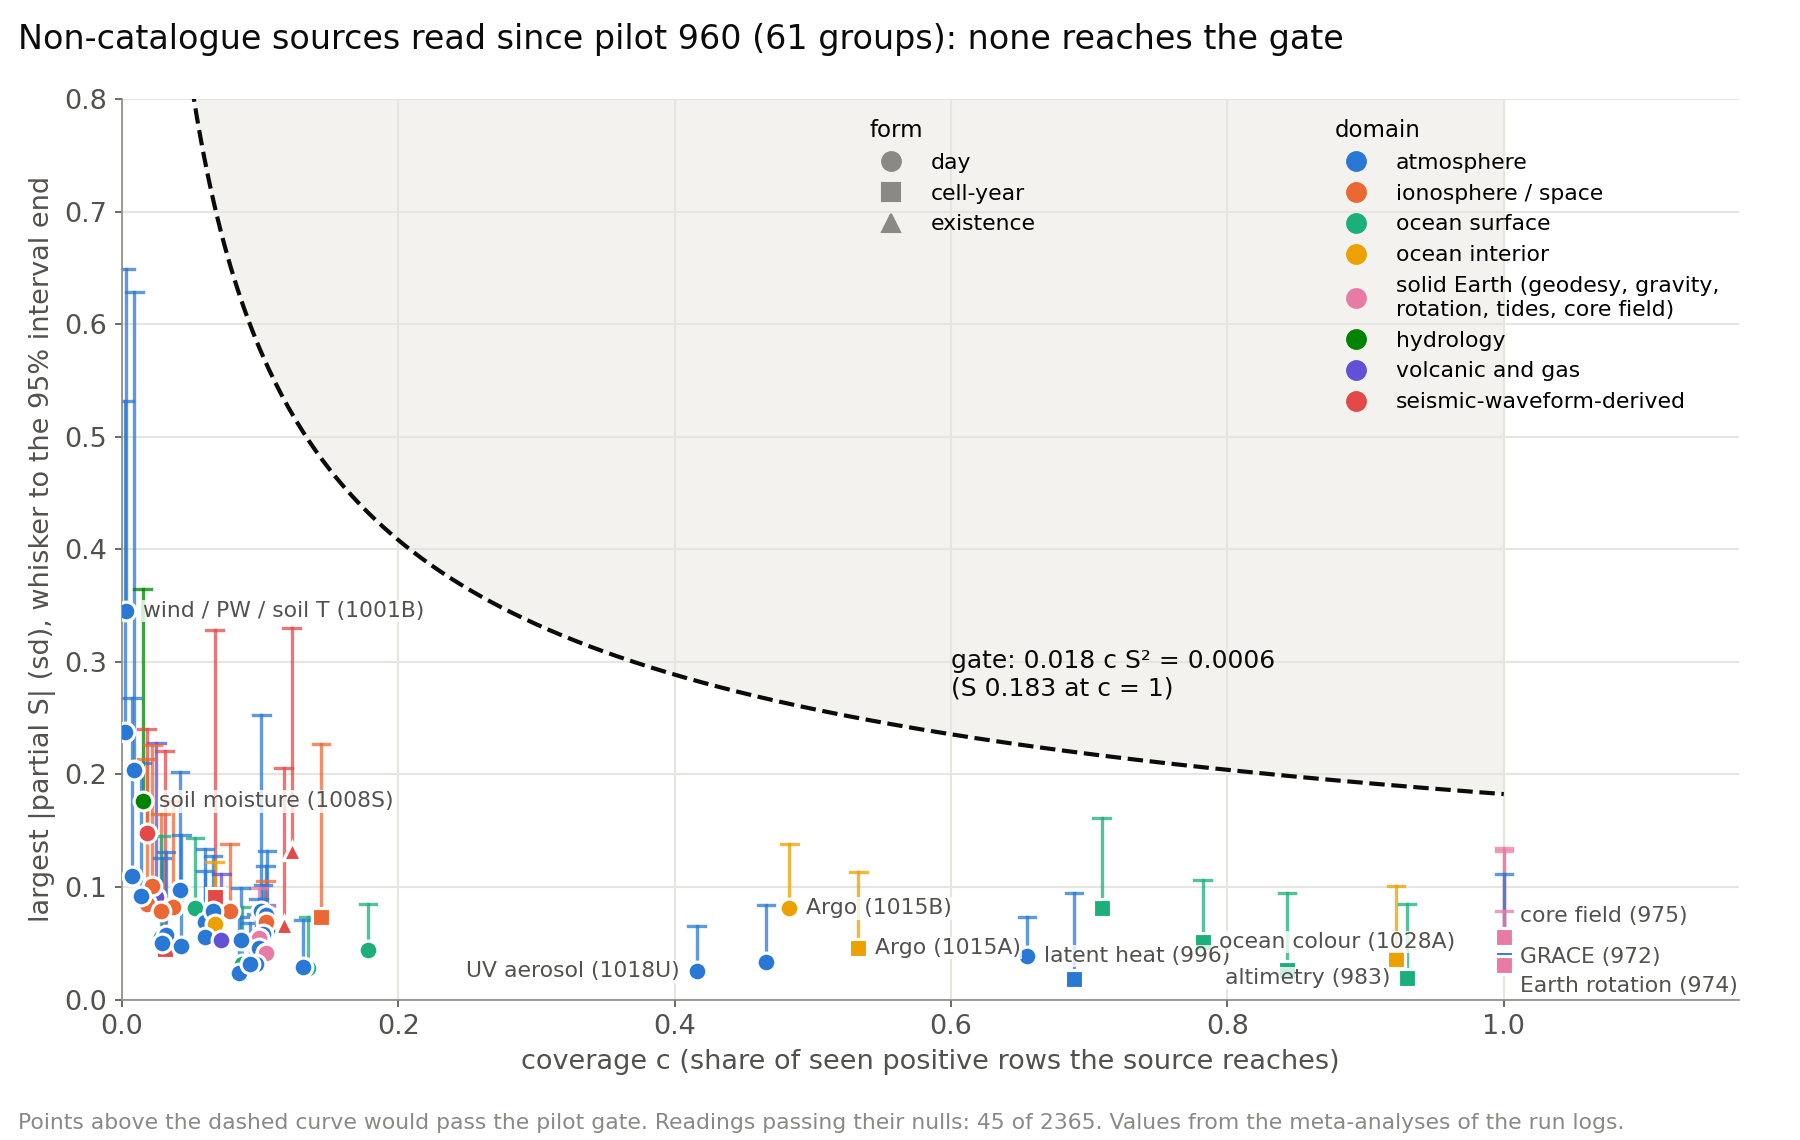
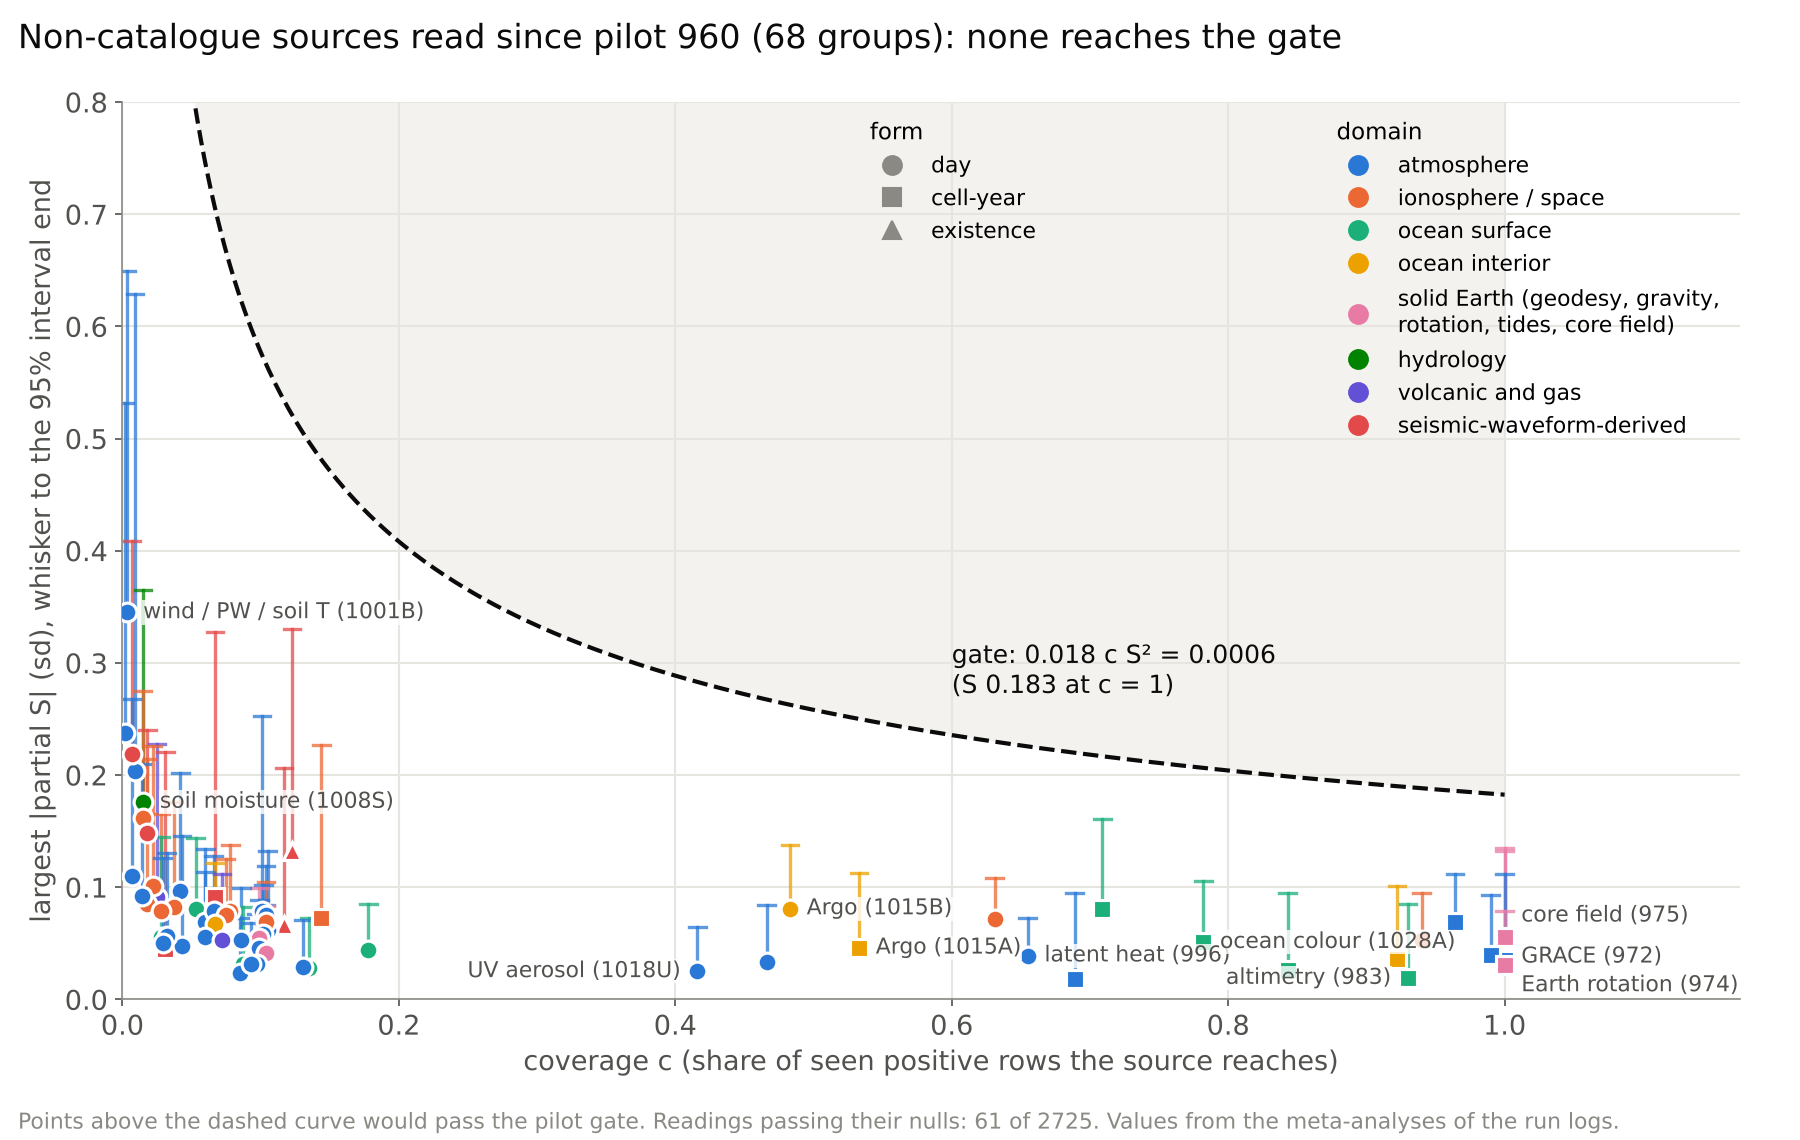
Update 198 (rounds 1074-1137); honest axis 0.778 unchanged; 7 pilot rows, figure 2 redrawn
Claude-Session: https://claude.ai/code/session_01Qxf5chyvwNeB8zBdWUwujx

diff --git a/RESEARCH-LOG.md b/RESEARCH-LOG.md
@@ -16,6 +16,7 @@ Every research narrative entry from the README, moved here unchanged on 2026-08-
 
 | # | date | what it says |
 |---|---|---|
+| [198](#update-198-2026-11-26) | 2026-11-26 | rounds 1074-1137: eight more non-catalogue sources read with a label-free validation stage first, the timing of the first earthquake inside its cell read for room and for causal order, an ETAS starting score, reruns of no-verdict readings, new secondary readings, four more prospective tests and a state-space b-value arm frozen; nothing moved the number (honest axis 0.778, main axis 0.787474) |
 | [196](#update-196-2026-11-22) | 2026-11-22 | rounds 1043-1068: a campaign toward 0.80 with look-ahead room checks before any arm (0 of 8 slots used), the feature space on and beyond the base read for room, eight more non-catalogue sources; nothing moved the number (honest axis 0.778, main axis 0.787474) |
 | [197](#update-197-2026-11-23) | 2026-11-23 | rounds 1069-1097: the honest axis decomposed and read through (seven designs), image-only and audio-only sources searched and the first pictures digitised, searched redos of readings whose model settings had been guessed, gate redesigns of earlier no-verdict readings; nothing moved the number (honest axis 0.778, main axis 0.787474) |
 | [195](#update-195-2026-11-18) | 2026-11-18 | rounds 992-1042: new catalogue parameter groups and more than twenty non-catalogue sources read, none admitted; the missing order lies mostly in quiet-looking cells and between strata; three more arms frozen for 2027 |
@@ -1023,3 +1024,7 @@ Every research narrative entry from the README, moved here unchanged on 2026-08-
 ## update 197 (2026-11-23)
 
 **2026-11-23 update 197 (rounds 1069 to 1097: the gap between the honest and the main axis decomposed and read through, image-only and audio-only sources searched and digitised, searched redos of readings whose model settings had been guessed, and gate redesigns of earlier readings without a verdict; nothing moved the number).** The headline number has not moved: 0.778 on the honest axis (0.777844; dropped rows counted as negatives) and 0.787474 on the main sudden axis, on which verdicts are read, over the 25 seen windows; the distances from the honest number are 0.022 to 0.80, 0.072 to 0.85 and 0.122 to 0.90. The 0.90-0.92 AUCs of older updates remain pooled figures carried by aftershock positives, as the note of 2026-11-19 says. **The honest axis, decomposed.** A meta-analysis (meta1076) splits the 0.122 to 0.90 into about 0.0096 that the dropped rows cost and 0.1125 of order between positive and quiet rows on the main axis. Diagnostic 1069 (on the cell-year-logit day model, honest 0.777137 seen / 0.731805 early) finds the dropped rows to be 0.0367 of the honest negatives, ranked against the positives at AUC 0.529; days before an isolated M 5.0-5.9 are 0.559 of them (AUC 0.612), and days inside the Gardner-Knopoff window of an earlier parent before a later non-isolated event are 0.42 of them (AUC 0.414 under parents below M 6), that is, the model ranks them above the positives. Placing that class below all rows would add +0.0090 on the honest axis with look-ahead, the M 5.0-5.9 class +0.0079 and all dropped rows +0.0173, and nearly all of it lies between cells (against the same cell's quiet rows +0.0002). Over 71 recorded day-level rounds the honest and main gains correlate at r 0.998, so no round lost on the main axis would have been kept on the honest axis. Six causal designs then tried to reach that room, each declared before its label read with a planted effect read back: a demotion rule for rows inside open Gardner-Knopoff windows (1071; the same state holds 0.119 of the positives as well as 0.49 of those rows; honest -0.000454 seen), a magnitude-exceedance factor (1083; look-ahead room of the causal form +0.000904 against +0.003 needed; rows under M 6-7 parents are enriched in positives), a factor from the expected 34-day number of M >= 5 by Omori decay of open parents (1084; room +0.000032), a size head from the cell's own ratio of isolated M >= 6 to M >= 5 events and an honest-label refit of the day-level stack with a searched class weight (1085; -0.000200 and -0.000258 seen), and a boosted-tree honest-label correction (1086, no verdict: its planted gate failed). At equal base score the open-parent states do separate positives from those dropped rows (within-bin AUC - 0.5 of -0.26 and -0.27 on both arenas; 1086), but against all honest negatives the largest within-bin effect is -0.0185 against a detection floor of 0.024 (1087), because these rows are about 1.5% of the honest negatives and quiet rows in the same state sit below the positives too. The best of the six realises 0.135 of the room (meta1088): the 0.0096 between the axes is not reachable with day-level catalogue states at this size, and what separates those rows from positives is the size of the event that follows. One prospective single test was frozen from this line (1090): the within-bin order of the expected count times the size ratio against all honest negatives on windows 37-44, sign and threshold (+0.024) fixed in advance, one reading on or after 2035-03-01 (seen -0.0057, early +0.0369). **Image-only and audio-only sources.** Sources published only as pictures or sound are now in scope: they are digitised and validated against numbers or a label-free check before any label read. A first audit (1070) found no picture-only or sound-only family reaching coverage 0.3 (VLF amplitude plots 0.105). A second, deeper search (1072, 1073) found the IMS hydrophone triplets (HA11, HA08S, HA10, HA01) open at EarthScope for 2015-2026, with T phases of M 4.6-5.4 events seen at 2,000-2,600 km and a basin-reach bound of coverage 0.454, 150 of the 315 ocean-only quiet firing cell-windows; 676 daily colour-mapped NASA GIBS layers that invert exactly to values; Indonesian station bulletins with hypocentre tables down to M 1.0 for 2019 and 2023-2026 only (prospective value); and the JMA Tokai borehole strain as vector figures in the monthly Nankai evaluation documents. The strain was digitised from 147 documents for 27 stations (1077): the gate on overlap between consecutive issues failed (hourly pass share 0.884 against 0.90), so it has no verdict; on the masked series nothing was found (M >= 3.0, 49 targets, S +0.25 [-0.08, +0.64]), the positive part sitting in the targets inside documented slow-slip episodes. The GIBS pictures (1075; 44,405 pictures, 0 off-palette pixels) of night brightness temperature (MODIS Terra and Aqua), tropospheric NO2 (OMI), night cloud-top temperature and aerosol optical depth first had no verdict because the method twin failed on 2018 (daily-anomaly r 0.826 against 0.85); the cause was a product-version mismatch, and a same-version twin (MUR v4.1 picture against MUR v4.1 numbers) passes at 0.996 (1092), so the five layers fail at this size (largest |partial S| 0.056, aerosol depth 0.204 at n 194 with the interval including 0). Five more GIBS layers (1095; 45,381 pictures: AMSU-A channels 5 and 9, ocean cloud liquid water, cloud effective radius and optical thickness) fail at this size or, for the two AMSU channels, have no verdict on the gate as frozen (an index error in the gate was fixed only after their effect sizes were printed; they fail on the corrected gate); largest |partial S| 0.079 against a gate of about 0.185-0.235. WGLC daily lightning (WWLLN, CC BY 4.0) fails at coverage 0.62 with |S| <= 0.048. Sizing found WWSSN film scans (complete for 5 stations only) and HARP hydrophone audio (coverage 0.0168) below coverage, and GridSat-B1 geostationary infrared 1980- at coverage 0.9956 seen and 0.7978 on the early arena (1089, 1096). Declared, running: pilot 1074 (IMS hydrophone T-phase small-event rate, day level, coverage 0.1785 of positive rows 2015-2025) and existence test 1097 (OMTI airglow all-sky pictures around isolated M >= 6 mainshocks). **Searched redos.** A records audit (1078) listed readings whose model settings had been guessed; each redo used a declared Optuna search whose objective sees only training windows (k <= j - 2), the same budget for nulls and a planted version, and counts as one reading: the cell-year model's long-memory tree column (1082; 630 trials; +0.000024 seen, -0.000920 early), trees on the day-level logit (1081 T; +0.000359 seen, -0.011864 early), raw-catalogue learners (1080; day level -0.000031, cell year no verdict because its permuted-label null read 0.5533), the open daily fields jointly (1079; no verdict, planted +0.0014 against +0.003) and a graph network on the logit (1081 G and its prequential rerun 1081b; no verdict, the planted gate failed; REAL - BASE -0.0036 seen). Searched settings moved 0 of 6 readings to a gain (meta1088): the guessed settings were not what kept these readings small. **Gate redesigns.** Four earlier readings without a verdict were redone with redesigned gates, each declared first: the combined climate-index model of the regional firing counts with 9 features (1063c; the planted gate passes; r -0.035 at 30 regions against 0.27 needed: no arm), the quiet-stratum reading of the GIBS layers and lightning with a noise gate from 100 repeats (1091), the quiet-stratum reading of ocean-bottom pressure, salinity and column CO2 with per-variable planted gates (1093), and the below-floor ISC M 1-2.99 state inside the quiet stratum with finer bins (1094; +0.0702, z 2.84, Holm 0.187; its prospective test stands): all gates pass, and none is found at this size. A meta-analysis (meta1076, meta1088) counts 38 of 2,300 non-catalogue readings since pilot 960 passing their nulls against 115 by chance, 0 at the pilot gate. Next: pilot 1074 read once its fetch is done, existence test 1097 read once its fetch is done, a declared GridSat-B1 monthly pilot with the early arena, a planted-gate diagnostic before any further graph reading, the December coverage-first audit of newly opened seafloor-network data; after 2026-12-15 every frozen arm is fitted for window 37 (2027), with commit hashes before 2027-02-01, and on or after 2027-03-01 the rest of 2026 is scored. The goal of a genuine 0.90 is held open.
+
+## update 198 (2026-11-26)
+
+**2026-11-26 update 198 (rounds 1074 to 1137: eight more non-catalogue sources read behind a label-free validation stage, the timing of the first earthquake inside its cell read for room and for causal order, an ETAS starting score, reruns of readings without a verdict, new secondary readings, and four prospective tests and one prospective arm frozen; nothing moved the number).** The headline number has not moved: 0.778 on the honest axis (0.777844; dropped rows counted as negatives) and 0.787474 on the main sudden axis, on which verdicts are read, over the 25 seen windows; the distances from the honest number are 0.022 to 0.80, 0.072 to 0.85 and 0.122 to 0.90. The 0.90-0.92 AUCs of older updates remain pooled figures carried by aftershock positives, as the note of 2026-11-19 says. The target stays the first earthquake: an isolated mainshock with nothing as large before it. **Non-catalogue sources, validation first.** Every new source now passes a label-free check (twin instruments or versions, copies shifted in space or time that must fail) before any label is read; four first runs stopped there, and three were amended before their reading. IMS hydrophone T phases (1074; EarthScope 2015-2025, 24,108 triplet-days): validation passes (0.423 of reachable M >= 5 events detected); the pilot fails at coverage 0.058-0.069 of seen positive rows, although 9 of the 10 blocks passing both nulls are positive (+0.13 to +0.22 sd, the first ocean source with a consistent positive sign; summed gain 0.000028 against the 0.0006 gate); its quiet-stratum reading has no verdict (planted gate failed). One prospective single test was frozen from it (1118: the below-catalogue hit rate at lead 11-34 d on windows 37 on, reading on or after 2033-03-01). GridSat-B1 night infrared 1980- (1089) stopped at its range check on scan dropouts; amendment 1101 masked 586 of 2,411,082 cell-days by a rule from counts only, then fails at this size (largest |S| 0.040 at coverage 0.99; 0 of 96 seen and 48 early tests above the definition-only arm pass Holm) and finds nothing inside the quiet stratum (629 of 634 firing cell-windows covered). MSU / AMSU satellite temperature 1979- (1104, RSS with a UAH twin) fails at this size on both arenas (-0.069 seen, -0.148 early, same sign, below the rule). SMOS L-band brightness temperature (1099) failed its own validation (the two daily passes agree at r 0.222 against 0.30): no verdict, no label read. DMSP in-situ plasma 1987- (1109) failed validation on ion temperature only; amendment 1114 reads density and its ratio and fails at this size (|partial S| <= 0.053 at coverage 0.94-0.98). TIMED / SABER limb emission and temperature (1115) failed one copy control (2025 OH); amendment 1117 masks it and fails at this size (largest NO 5.3 um emission at 11-34 d +0.072 against a gate of 0.193); a prospective single test of that column was frozen (1129) although a one-year-shifted copy reads as large on the seen years. POES / MetOp precipitating electrons (1116) fail at this size (|S| <= 0.075, coverage 0.716). Ground GNSS ROTI from IGS RINEX (1131) passes validation and finds no within-cell order of the first mainshock (coverage 0.18, |EXCESS| <= 0.035); its 1-3 d partial S reads +0.11 to +0.16 at n 340 (no verdict). Audits: GEONET F5 coordinates add coverage 0.0000 to the GNSS already read (1112); VLF receiver archives reach coverage 0.14 (1136); passive microwave, DMSP, SABER and particle bursts were sized first (1107). Pilot 1108 (SSM/I-SSMIS surface brightness temperature 1987-) is fetching, and a package for daily along-track altimetry (Copernicus Marine L3 1993-, coverage 0.907 of ocean-only quiet firing cell-windows) is prepared to be fetched on a local machine with a free account. **The first earthquake inside its cell.** Perfect timing of the first mainshock inside each foreshock-free cell-window would add +0.0155 on the main axis and +0.0163 on the honest axis with look-ahead (1119, 1120), below the honest 0.022 to 0.80, so timing has to come with cell-order information (meta1121). No causal catalogue quantity reaches the 0.03 within-cell bar (largest +0.028); the days-since-last-M4 order lives mostly in the 17% of cell-windows with a recent M >= 5 in the cell. It is frozen as a prospective single test (1122, windows 37 on). Cached non-catalogue day columns read the same way (1123) gave 36 Holm passes, none at its bar; a season- and solar-rotation-matched null (1135) removes all 36 (smallest Holm 0.256): the earlier block null was not calibrated for slowly varying series, and the matched null is now primary for such readings. In the Japan dense arena (effect sizes only) the below-floor small-event ratio orders the first mainshock above earlier quiet days at 1-3 d (+0.061 at M >= 5.0, not found at this size; +0.087 to +0.098 at M >= 5.5, where the definition-only arms failed their gates: no reading, 1124-1126); it goes to a prospective test on new JMA years (1127, on or after 2038-09-01). **Method and reruns.** An outside comment proposed ETAS as the starting score with a monotone learned residual (1111): ETAS alone reads 0.7548, -0.0318 seen and -0.0497 early against the base; with a searched residual -0.0064 / -0.0138, all gates passing: no room at this size. Reruns of earlier readings without a verdict: airglow pictures (1102, 1128) stay without a verdict, because a +0.3 sd plant moves the statistic by only 2.2 null sd on the real targets (more nights per target or a prospective test are the next form); the two AMSU picture layers with a corrected gate (1103) fail; the raw-catalogue cell-year network with a repaired null (1105; the earlier null had chosen its model on real labels) adds nothing (-0.000089 seen, -0.001501 early); the graph residual with a paired plant gate (1106) shows no room on the seen arena (above the definition-only arm +0.000055). **Secondary readings (no verdict).** Every report now prints the within-cell temporal AUC (base 0.4294 seen; before the first positive 0.4957 seen / 0.5242 early, the line for first-earthquake timing), the log-score (+0.00204 nats per row above the base rate) and PR-AUC (0.0183 at base rate 0.00337) (1113), and the Molchan area skill score (0.7856 seen / 0.7406 early) with pyCSEP-style N and S tests (the calibrated forecast over-predicts positive rows by 3.5% seen and 8.4% early; cell-level S zeta 0.72 / 0.59) (1133). **Prospective.** A state-space b-value on b-positive magnitude differences, with parameters chosen on synthetic catalogues only, was frozen as one prospective arm (1132). A ComCat M >= 5 input file lost in a container restart was refetched (258 M >= 6 rows against 259): the arms that read it are rebuilt for 2026 through hash-line-only copies and are stated as not rebuildable bit for bit. Counts (meta1134): 98 of 2,847 non-catalogue readings since pilot 960 pass their nulls against 142 by chance, most of the new ones the within-cell passes that 1135 traced to the calendar; 0 at the pilot gate. Next: pilot 1108 read once its fetch is done, a declared along-track altimetry pilot when its arrays arrive, the December coverage-first audit; the window-37 cut is 2026-11-28, every frozen arm is fitted for window 37 (2027) after 2026-12-15 with commit hashes before 2027-02-01, and on or after 2027-03-01 the rest of 2026 is scored. The goal of a genuine 0.90 is held open.

diff --git a/docs/update-digest.md b/docs/update-digest.md
@@ -1196,3 +1196,14 @@ are now digitised and validated: GIBS satellite pictures (ten layers), JMA boreh
 lightning fail at this size or have no verdict; IMS hydrophones and airglow pictures are declared and running.
 Searched redos of guessed model settings moved 0 of 6 readings to a gain, and four gate redesigns pass their
 gates and find nothing at this size (update 197).
+
+The headline stays at 0.778 on the honest axis (0.777844; main axis 0.787474, on which verdicts are read;
+0.122 from 0.90). Eight more non-catalogue sources were read behind a label-free validation stage (IMS
+hydrophones, GridSat-B1 infrared, MSU / AMSU temperature, SMOS, DMSP plasma, TIMED / SABER, POES electrons,
+ground GNSS ROTI): none reaches the pilot gate, SMOS has no verdict, and the hydrophone rate is the first ocean
+source with a consistent positive sign at coverage 0.07. Perfect timing of the first mainshock inside its cell
+would add +0.0163 on the honest axis; no causal quantity orders it at this size, and a season-matched null
+removes the 36 within-cell passes of cached space-weather columns. An ETAS starting score shows no room, reruns
+of no-verdict readings find nothing, secondary readings (within-cell AUC, log-score, PR-AUC, area skill score,
+N / S tests) are printed in every report, and four prospective tests and a state-space b-value arm were frozen;
+the passive-microwave pilot is in progress (update 198).
